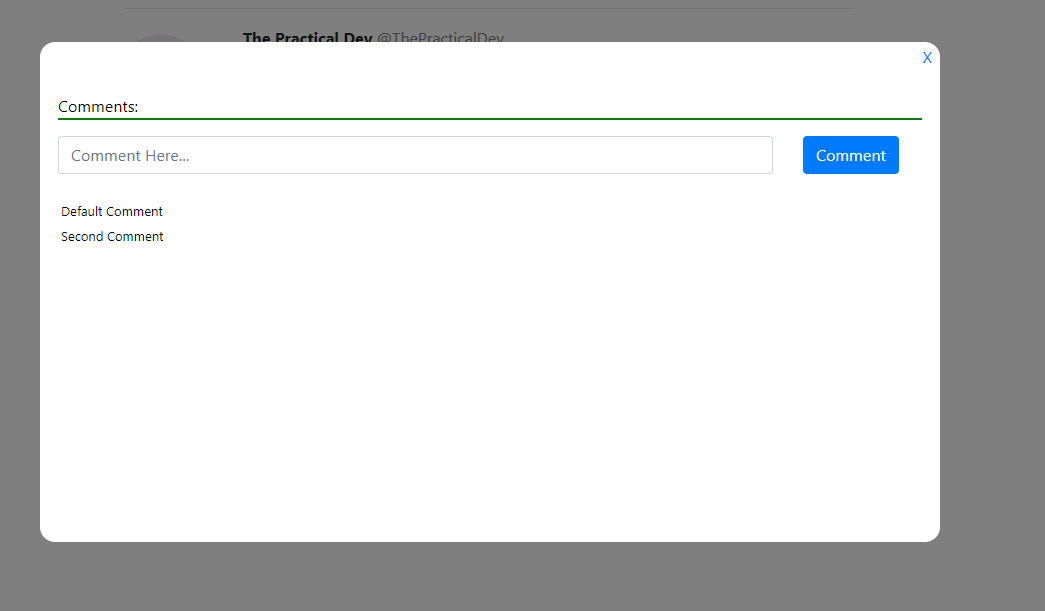
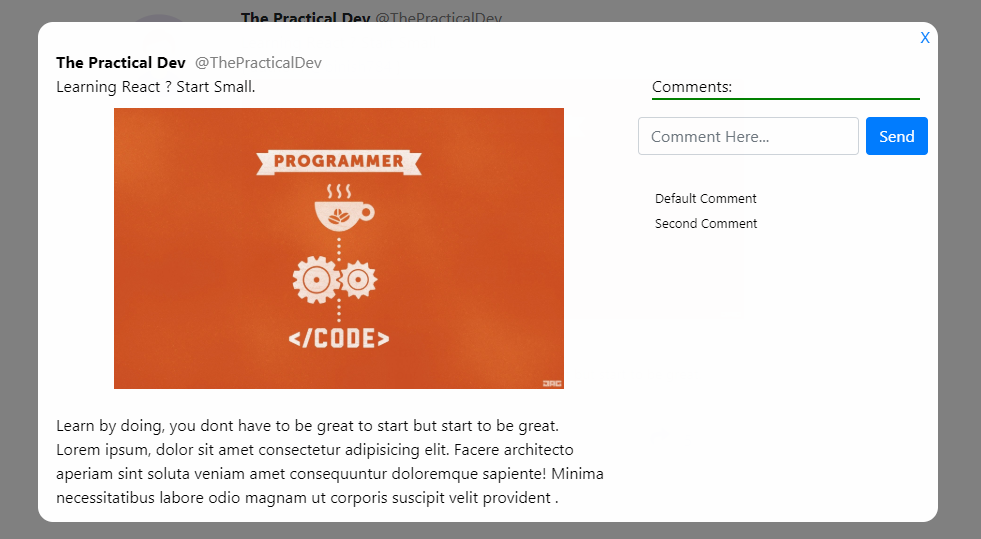
Popup changed

diff --git a/src/components/card.jsx b/src/components/card.jsx
@@ -1,6 +1,7 @@
 import React, { Component } from 'react';
 import {FaHeart,FaShare,FaRegComments} from 'react-icons/fa';
 import PopUp from './popup';
+import Comment from './comment';
 
 class SocialCard extends Component { 
 
@@ -120,7 +121,7 @@ class SocialCard extends Component {
                             <br></br>
                             
                             <a href='javascript:void(0)' className='colorBlack'><div className='card'>
-                                <img src='https://images.alphacoders.com/511/thumb-1920-511052.jpg' className='postImage card-img-top img-fluid'></img>
+                                <img src={this.props.img} className='postImage card-img-top img-fluid'></img>
                                 <div className='card-body'>
                                
                                     <b className='card-title'>
@@ -149,22 +150,39 @@ class SocialCard extends Component {
                
             </div>
             <PopUp isOpen={this.state.visible}>
-                <br></br>
-                <p className='commentHeader'>Comments:</p>
-                
+
                 <div className='row'>
-                    <div className='col-md-10'>
-                        <input type='text' className='form-control' placeholder='Comment Here...' onKeyPress={this.handleKeyPress} onChange={this.handleChange} value={this.state.comment_text}></input>
+                    <div className='col-md-8'>
+                        <b>{this.props.title}</b>&nbsp;&nbsp;<span className='greyText'>@ThePracticalDev</span><br></br>
+                        {this.props.subTitle}
+                        <br></br>
+                        <div className='PopUp-image-block'>
+                            <img src={this.props.img} className='PopUp-image'></img>
+                        </div><br></br>
+                        {this.props.description}<br></br>
+                        Lorem ipsum, dolor sit amet consectetur adipisicing elit.
+                         Facere architecto aperiam sint soluta veniam amet consequuntur
+                          doloremque sapiente! Minima necessitatibus labore odio magnam 
+                          ut corporis suscipit velit provident .
                     </div>
-                    <div className='col-md-2'>
-                        <input type='submit' className='btn btn-primary' value='Comment' onClick={this.addComment}></input>
-                
+                    <div className='col-md-4'>
+                        <br></br>
+                        <p className='commentHeader'>Comments:</p>
+                        <div className='row'>
+                            <div className='col-md-9 nopadding'>
+                                <input type='text' className='form-control' placeholder='Comment Here...' onKeyPress={this.handleKeyPress} onChange={this.handleChange} value={this.state.comment_text}></input>
+                            </div>
+                            <div className='col-md-2 nopadding'>
+                                <input type='submit' className='btn btn-primary' value='Send' onClick={this.addComment}></input>
+                            </div>
+                        </div>
+                        <br></br>
+                        {this.state.comments.map((val,key)=>
+                            <Comment key={key} commentText={val}/>
+                            )}
                     </div>
-                    </div>
-                <br></br>
-                {this.state.comments.map((val,key)=>
-                    <div className='commentRow' key={key}>{val}</div>
-                    )}
+                </div>
+            
                 
                 <a href='javascript:void(0)' id='popup-close-btn' onClick={this.closePopUp}>X</a>
             </PopUp>

diff --git a/src/App.css b/src/App.css
@@ -75,6 +75,12 @@
   background-color: rgba(0, 0, 0, 0.5); 
   height: 100%;
   width:100%;
+  animation: popAnimate 0.5s ease forwards;
+}
+
+@keyframes popAnimate{
+  0%{opacity: 0;}
+  100%{opacity: 1;}
 }
 
 .PopUp-hidden{
@@ -90,7 +96,7 @@
 
 .PopUp-content{
   position: relative;
-  margin: 50px auto;
+  margin: auto;
   max-width: 900px;
   height: 500px;
   color: black;
@@ -98,6 +104,14 @@
   border: 3px solid white;
   padding: 25px 15px 15px 15px;
   border-radius: 15px;
+  animation: contentAnimate 0.5s ease forwards;
+
+}
+
+@keyframes contentAnimate{
+  0%{opacity: 0;height: 0px;max-width: 0px;}
+  100%{opacity: 1;transform: translateY(50px);height:500px;max-width: 900px;}
+
 }
 
 
@@ -110,4 +124,13 @@
   position: absolute;
   top: 0;
   right: 5px;
+}
+
+.PopUp-image{
+  margin-top: 10px;
+  max-width: 450px;
+}
+
+.PopUp-image-block{
+  text-align: center;
 }

diff --git a/src/App.js b/src/App.js
@@ -6,7 +6,7 @@ import 'bootstrap/dist/css/bootstrap.css';
 function App() {
   return (
     <div>
-      <SocialCard description="Learn by doing, you dont have to be great to start but start to be great." title='The Practical Dev' author='binish784' subTitle='Learning React ? Start Small.'/>
+      <SocialCard img='https://images.alphacoders.com/511/thumb-1920-511052.jpg' description="Learn by doing, you dont have to be great to start but start to be great." title='The Practical Dev' author='binish784' subTitle='Learning React ? Start Small.'/>
     </div>
   );
 }

diff --git a/src/components/comment.jsx b/src/components/comment.jsx
@@ -1,0 +1,13 @@
+import React, { Component } from 'react';
+
+class Comment extends Component{
+render(){
+    return(
+        <div className='commentRow'>
+            {this.props.commentText}
+        </div>
+    )
+    }
+}
+
+export default Comment;
